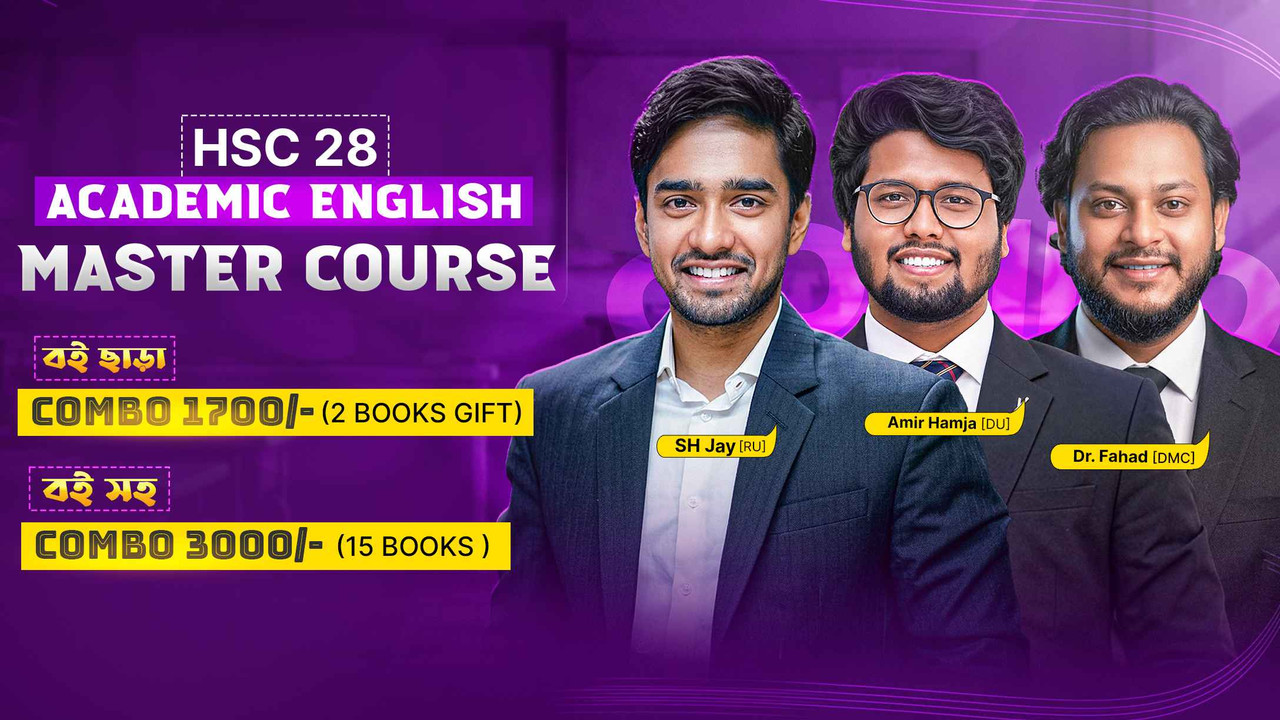
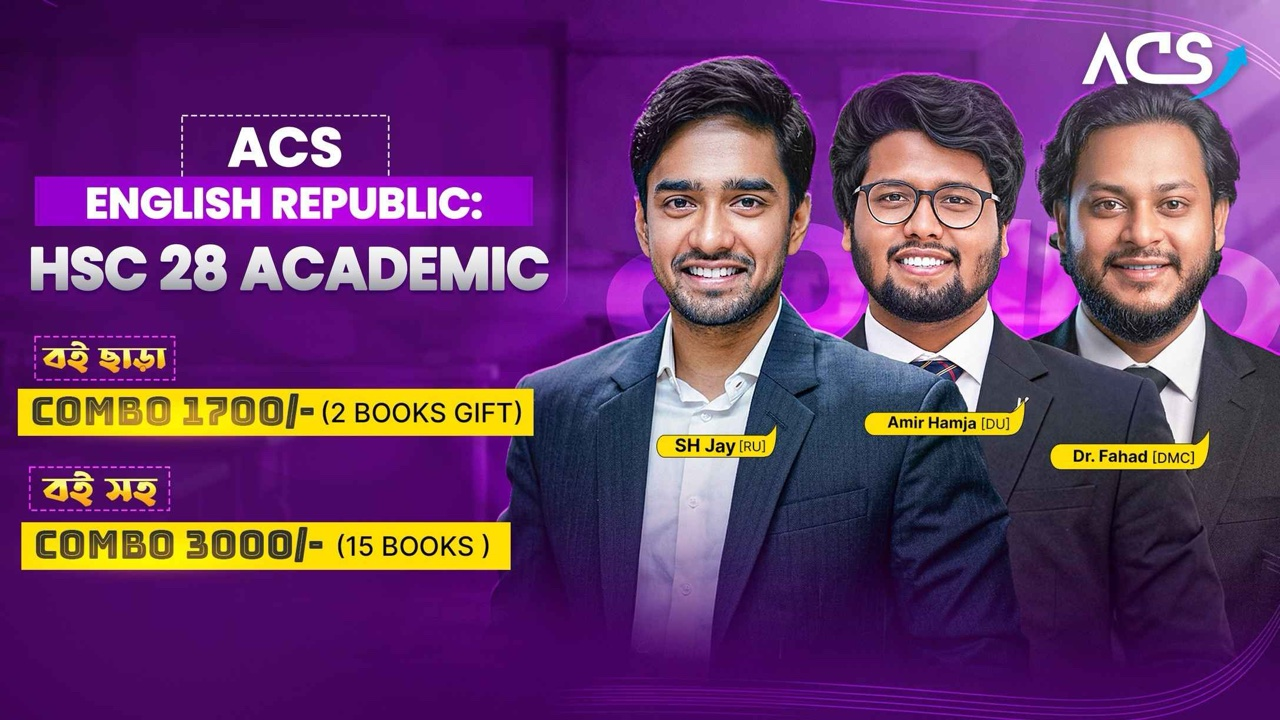
update fahadeng28 coure thumbnails

diff --git a/shop/drfahad/fahadeng28/index.html b/shop/drfahad/fahadeng28/index.html
@@ -277,8 +277,7 @@
     <div class="container">
         <div>
             <div class="logo">
-                <!-- TODO: replace placeholder banner -->
-                <img src="https://i.postimg.cc/MTdg3Vrs/compressed-image-(7).jpg" height="200px"
+                <img src="https://aparsclassroom.com/shop/assets/images/course-thumbnails/fahadeng28/main.webp" height="200px"
                     alt="ACS English Republic: HSC 28 Academic">
             </div>
         </div>
